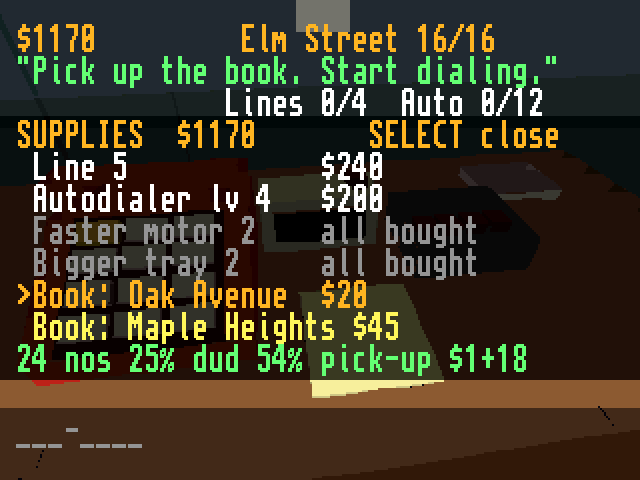
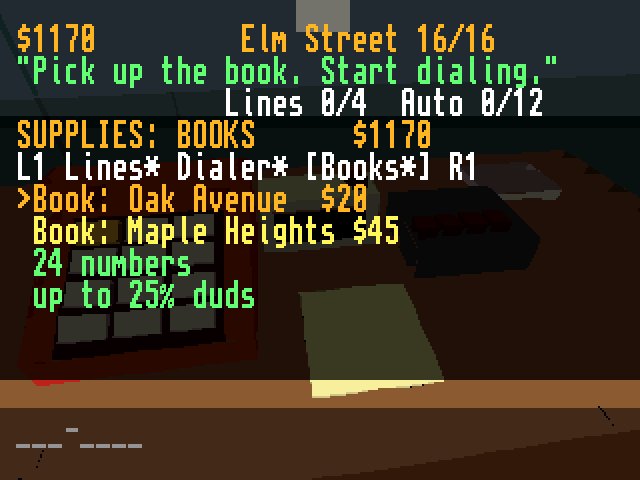
Supplies shop in three tabs (lines, autodialer, books), L1/R1 switch
Books show only the number count and up to N% duds; an asterisk marks a tab with something you can afford.

Changed region(s): [[0.0312, 0.25, 0.8438, 0.7812], [0.75, 0.25, 0.875, 0.3125]]

diff --git a/src/book_scene.cpp b/src/book_scene.cpp
@@ -59,6 +59,8 @@ static constexpr int16_t c_rowY[ROW_PANEL] = {12, 28, 44, 208, 192, 98, 114};
 static constexpr int16_t PANEL_X = 168, PANEL_Y = 64;
 static constexpr int16_t TOP_BAND_H = 64, BANNER_Y = 92, BANNER_H = 42;
 static constexpr int16_t SHOP_FIRST_Y = 60;
+// title, tabs, up to four items, two description rows
+static constexpr int16_t SHOP_PANEL_ROWS = 8;
 // the autodialer's readout: 8 characters of 6 pixels, two rows
 static constexpr int16_t LED_W = 8 * KeyGlyphs::GLYPH_W + 6, LED_H = 2 * KeyGlyphs::GLYPH_H + 6;
 // opening the office saves only if the last save is at least this old
@@ -297,20 +299,50 @@ uint8_t BookScene::PanelCount(void) const {
 	return m_panelBook == RESIDENTIAL_BOOKS - 1 && m_sim.Category() == 0 && m_sim.NoteState() >= 1 ? n + 1 : n;
 }
 
+// the items of the open category: lines, the autodialer and its parts, the books for sale
 uint8_t BookScene::ShopCount(void) {
 	uint8_t n = 0;
-	for (uint8_t i = 0; i < BookSim::SHOP_ENTRIES; i++) {
-		m_shopItems[n++] = i;
+	if (m_shopCat == 0) {
+		m_shopItems[n++] = 0;
+	} else if (m_shopCat == 1) {
+		for (uint8_t i = 1; i < BookSim::SHOP_ENTRIES; i++) {
+			m_shopItems[n++] = i;
+		}
+	} else {
+		uint8_t books[BOOK_COUNT];
+		uint8_t count = m_sim.ForSaleList(books);
+		for (uint8_t i = 0; i < count; i++) {
+			m_shopItems[n++] = BookSim::SHOP_ENTRIES + books[i];
+		}
 	}
-	uint8_t books[BOOK_COUNT];
-	uint8_t count = m_sim.ForSaleList(books);
-	for (uint8_t i = 0; i < count; i++) {
-		m_shopItems[n++] = BookSim::SHOP_ENTRIES + books[i];
-	}
-	if (m_shopSel >= n) {
+	if (n == 0) {
+		m_shopSel = 0;
+	} else if (m_shopSel >= n) {
 		m_shopSel = n - 1;
 	}
 	return n;
+}
+
+// something in the category you could buy right now (the tab gets an asterisk)
+bool BookScene::ShopCategoryAffordable(uint8_t cat) const {
+	uint8_t books[BOOK_COUNT];
+	if (cat == 2) {
+		uint8_t count = m_sim.ForSaleList(books);
+		for (uint8_t i = 0; i < count; i++) {
+			if (m_sim.Cash() >= BookSim::c_books[books[i]].price) {
+				return true;
+			}
+		}
+		return false;
+	}
+	uint8_t first = cat == 0 ? 0 : 1, last = cat == 0 ? 1 : BookSim::SHOP_ENTRIES;
+	for (uint8_t i = first; i < last; i++) {
+		uint32_t price = m_sim.ShopPrice(i);
+		if (price && !(i >= 2 && !m_sim.HasAutodialer()) && !m_sim.ShopLocked(i) && m_sim.Cash() >= price) {
+			return true;
+		}
+	}
+	return false;
 }
 
 void BookScene::Toast(uint16_t ticks, const char* fmt, ...) {
@@ -351,14 +383,26 @@ void BookScene::HandleShopButton(psyqo::AdvancedPad::Button button) {
 	using Button = psyqo::AdvancedPad::Button;
 	uint8_t count = ShopCount();
 	switch (button) {
+		case Button::L1:
+		case Button::R1:
+			m_shopCat = (m_shopCat + (button == Button::L1 ? SHOP_CATS - 1 : 1)) % SHOP_CATS;
+			m_shopSel = 0;
+			break;
 		case Button::Up:
-			m_shopSel = (m_shopSel + count - 1) % count;
+			if (count) {
+				m_shopSel = (m_shopSel + count - 1) % count;
+			}
 			break;
 		case Button::Down:
-			m_shopSel = (m_shopSel + 1) % count;
+			if (count) {
+				m_shopSel = (m_shopSel + 1) % count;
+			}
 			break;
 		case Button::Cross:
 		case Button::Square: {
+			if (!count) {
+				break;
+			}
 			uint8_t item = m_shopItems[m_shopSel];
 			if (item >= BookSim::SHOP_ENTRIES) {
 				uint8_t book = item - BookSim::SHOP_ENTRIES;
@@ -425,6 +469,7 @@ void BookScene::AfterPromotion(void) {
 	m_panelSel = 0;
 	m_panel = m_shop = false;
 	m_shopSel = 0;
+	m_shopCat = 0;
 	m_shownCash = m_sim.Cash();
 	m_bannerTimer = 0;
 	ClearPanel();
@@ -920,7 +965,18 @@ void BookScene::UpdatePanel(void) {
 void BookScene::UpdateShop(void) {
 	uint8_t count = ShopCount();
 	uint8_t r = ROW_OVER + (SHOP_FIRST_Y - 12) / 16;
-	SetRow(r++, c_amber, "SUPPLIES  $%-10d SELECT close", m_sim.Cash());
+	static const char* const c_catNames[SHOP_CATS] = {"LINES", "AUTODIALER", "BOOKS"};
+	SetRow(r++, c_amber, "SUPPLIES: %-10s $%d", c_catNames[m_shopCat], m_sim.Cash());
+	{
+		char tabs[48];
+		int len = snprintf(tabs, sizeof(tabs), "L1");
+		for (uint8_t c = 0; c < SHOP_CATS; c++) {
+			len += snprintf(tabs + len, sizeof(tabs) - len, c == m_shopCat ? " [%s%s]" : " %s%s", 
+							c == 0 ? "Lines" : c == 1 ? "Dialer" : "Books", ShopCategoryAffordable(c) ? "*" : "");
+		}
+		snprintf(tabs + len, sizeof(tabs) - len, " R1");
+		SetRow(r++, c_white, "%s", tabs);
+	}
 	for (uint8_t s = 0; s < count; s++) {
 		char cursor = m_shopSel == s ? '>' : ' ';
 		uint8_t i = m_shopItems[s];
@@ -963,12 +1019,20 @@ void BookScene::UpdateShop(void) {
 		}
 	}
 	// what the selected thing does
+	if (!count) {
+		SetRow(r++, c_grey, " No books for sale yet.");
+		SetRow(r++, c_grey, " Finish a book to see more.");
+		for (; r < ROW_OVER + OVER_ROWS; r++) {
+			SetRow(r, c_white, "");
+		}
+		return;
+	}
 	uint8_t i = m_shopItems[m_shopSel];
 	if (i >= BookSim::SHOP_ENTRIES) {
 		uint8_t b = i - BookSim::SHOP_ENTRIES;
 		const auto& book = BookSim::c_books[b];
-		SetRow(r++, c_green, "%d nos %d%% dud %d%% pick-up $%d+%d", book.entries, book.dudPercent,
-			   m_sim.PickupPercent(b), book.fee, book.bonus);
+		SetRow(r++, c_green, " %d numbers", book.entries);
+		SetRow(r++, c_green, " up to %d%% duds", book.dudPercent);
 		for (; r < ROW_OVER + OVER_ROWS; r++) {
 			SetRow(r, c_white, "");
 		}
@@ -1369,7 +1433,7 @@ void BookScene::frame() {
 	int16_t bottom = m_toastTimer || m_save.WritingFile() ? c_rowY[ROW_TOAST] : c_rowY[ROW_HAND];
 	DrawBand(0, bottom - 4, 320, 240 - (bottom - 4), c_band);
 	if (m_shop) {
-		int16_t h = 16 * (ShopCount() + 2) + 4;
+		int16_t h = 16 * SHOP_PANEL_ROWS + 4;
 		DrawBand(0, SHOP_FIRST_Y - 2, 320, h, c_band);
 		DrawBand(0, SHOP_FIRST_Y - 2, 320, h, c_band);
 	} else if (m_panel) {

diff --git a/docs/phonebooks.md b/docs/phonebooks.md
@@ -24,7 +24,8 @@ Large business and CEOs are later; the office shows them locked.
 | L1 / R1 | move up / down the book (book open); past either end, your next or previous book |
 | Square | put the number under the cursor on the autodialer's list, or take it off |
 | Square, held 1 s | empty the autodialer's list (book open) |
-| Select | supplies: lines, the autodialer and its parts, phone books |
+| Select | supplies, in three tabs: lines, the autodialer and its parts, phone books |
+| L1 / R1 (supplies open) | switch tab |
 | START | the office: your stats, the books, the categories, the promotion; X there shows the how-to-play card |
 
 ## The screen
@@ -64,8 +65,11 @@ else is left. The book's bottom line takes turns between its keys.
 ## The books
 
 Every number in a book has to be called once (any outcome) to finish it. Books are bought in
-supplies (Select), where each one shows how many numbers it has, its dud chance, its pick-up chance
-and what a call and a sale pay. A category's first book is handed to you. Finishing books puts more
+supplies (Select). Supplies has three tabs, switched with L1/R1: Lines, Autodialer (the dialer and
+its parts) and Books. A tab with something you can afford right now carries an asterisk, so you can
+see that books are for sale. The Books tab lists each book for sale on its own row; the one under
+the cursor shows only how many numbers it has and "up to N% duds". Its pick-up chance and what a
+call and a sale pay you find out by dialing. A category's first book is handed to you. Finishing books puts more
 of them up for sale, so after Elm Street you choose between two.
 
 | Book | Numbers | Duds | Pick-up | Fee | Bonus | Price | For sale after |
